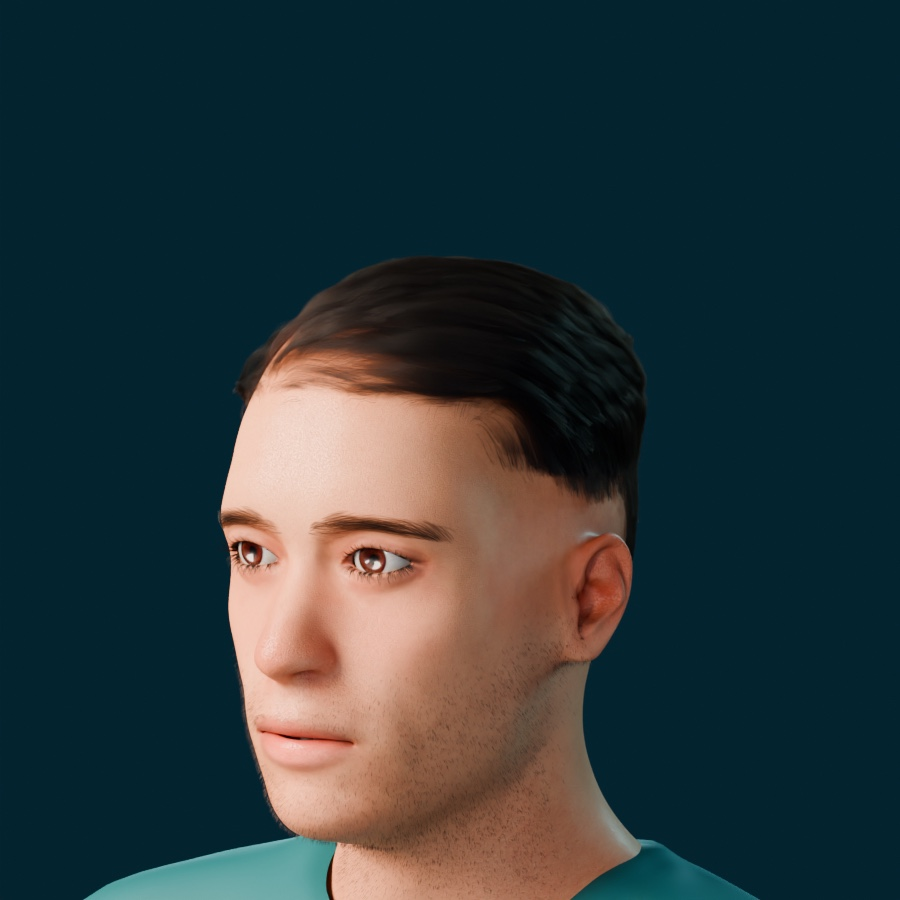
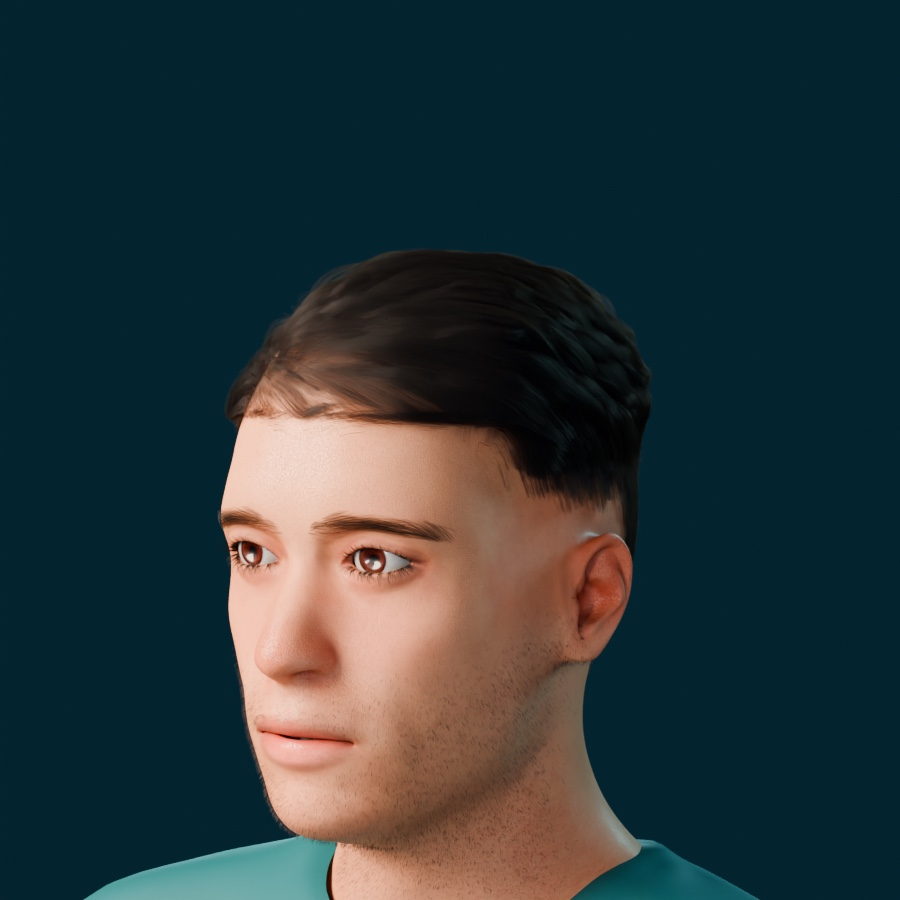
Max v5b review: lower hairline re-render, close-ups, notes (Mac Metal, 128 spp)

Changed region(s): [[0.2489, 0.28, 0.6844, 0.56], [0.6533, 0.56, 0.7156, 0.5911]]

diff --git a/assets/characters/max/review/max_v5_notes.md b/assets/characters/max/review/max_v5_notes.md
@@ -48,3 +48,31 @@ Blender 5.2.3 LTS, Cycles, **128 samples**, denoised.
 - No hair through skin, no floating or stray strands, no fireflies seen at 128 spp.
 - No mesh tearing at eyelids or mouth corners.
 - Only artefacts: the orange scalp band at the hairline and the white ear-rim line (above).
+
+## v5b
+
+Re-render of `max_v5.blend` at 2b83e69: same Metal wrapper, 128 spp. The sheets and both close-ups
+are overwritten with v5b.
+- Times: turnarounds 2.8-3.8 s, expressions 3.8-4.8 s (avg ~4.2 s), close-ups 11.6 s (neutral) and
+  11.7 s (ear pop). Whole run 109 s. Peak footprint 7.4 GB, max RSS 2.8 GB.
+
+### Did the fixes work?
+- **Hairline: mostly yes.** Clearly lower and fuller in the close-ups; he no longer looks like he's
+  balding. From the front (expression tiles) a mild "M" and slightly bare temple corners still
+  show, much less than v5. One more small step of temple fill would finish it.
+  - New: the front edge is now a fairly straight, dark line across the forehead. The feathering
+    is softer than v4b but still reads as an edge in the close-up. A few sparser, finer baby hairs
+    in front of the line would break it up.
+- **Orange band: fixed.** No orange/translucent scalp tint under the fringe. Only a slight warm
+  brown in the hair tips at the front, which reads as hair colour.
+- **Side fade: partly.** A faint stubble shade above the ear now, but the boundary from bare skin to
+  full hair is still quite sudden, especially behind the ear (ear pop close-up). It reads as a high
+  skin fade rather than shaved. Acceptable; a longer gradient would look more natural.
+- **Volume: yes.** More lift and a rounder top. It looks styled, not plastered. The crown
+  shows soft clumped waves, which look natural.
+
+### Anything new / unchanged
+- No hair through skin, no stray or floating strands, no fireflies.
+- Still there: the thin white line on the top rim of the ear in both close-ups (rim light on the
+  ear edge), and sparse/gappy lower teeth (ear pop, surprised, scared, yawn).
+- Expressions unchanged from v5 (neutral / chew / swallow still look alike).
